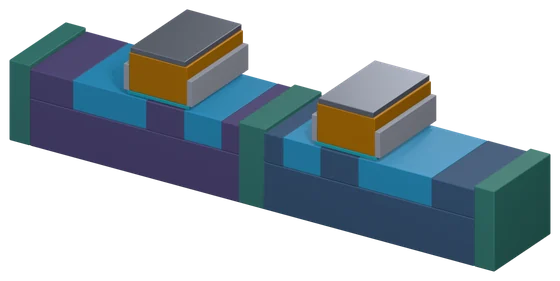
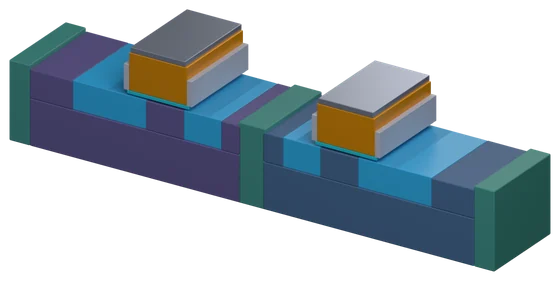
render: 全部 12 张图改用 Cycles 出图
- 3d/kit.py 改为 fabkit 兼容层，默认引擎 Cycles（FAB_ENGINE/FAB_SAMPLES 可覆盖）
- 修复 MOSFET：栅极 alpha 0.22 + 沟道自发光，Cycles 下才看得见沟道
- 修复塑封料 alpha 0.42，透过率更稳
- 96 采样，单张 3-5 秒；11MB 全部图

diff --git a/3d/kit.py b/3d/kit.py
@@ -1,167 +1,42 @@
-"""共用的小工具：材质、基本体、正交相机、三点光。
+"""兼容层：把老的 3d/*.py 里的 kit.* 转发到 fabkit。
 
-风格对齐站点：冷灰底 + 琥珀/天蓝强调色，正交投影（平行线不发散），
-透明背景，方便深浅两套主题都放得下。
+引擎默认 Cycles（可用 FAB_ENGINE=EEVEE 临时切回），采样数用 FAB_SAMPLES 调。
 """
-import bpy
-import math
 import os
-from mathutils import Vector
+import sys
 
-def srgb(c):
-    """sRGB → 线性。调色板按 sRGB 写，渲染是线性的，最后再统一转回 sRGB。"""
-    def f(x):
-        return x / 12.92 if x <= 0.04045 else ((x + 0.055) / 1.055) ** 2.4
-    return (f(c[0]), f(c[1]), f(c[2]), 1)
+FABKIT = os.path.expanduser("~/Projects/fabkit")
+if FABKIT not in sys.path:
+    sys.path.insert(0, FABKIT)
 
+import fabkit as _fk  # noqa: E402
+from fabkit.core import (  # noqa: E402,F401
+    srgb, mat, box, cyl, tube, ortho_camera, lights, world,
+)
 
+ENGINE = os.environ.get("FAB_ENGINE", "CYCLES")
+SAMPLES = int(os.environ.get("FAB_SAMPLES", "48"))
+
+# 老脚本用 kit.PALETTE[...]，这里保持同样的键和 sRGB 取值
 PALETTE = {
-    "substrate": (0.56, 0.63, 0.72, 1),
+    "substrate": (0.62, 0.66, 0.76, 1),
     "silicon":   (0.42, 0.55, 0.72, 1),
     "nplus":     (0.22, 0.74, 0.97, 1),
     "gate":      (0.96, 0.62, 0.04, 1),
     "oxide":     (0.13, 0.83, 0.93, 1),
     "sheet":     (0.38, 0.65, 0.98, 1),
-    "metal":     (0.78, 0.82, 0.88, 1),
-    "dark":      (0.12, 0.15, 0.2, 1),
+    "metal":     (0.78, 0.80, 0.85, 1),
+    "dark":      (0.20, 0.23, 0.28, 1),
 }
 
 
 def reset():
-    bpy.ops.wm.read_factory_settings(use_empty=True)
-    sc = bpy.context.scene
-    sc.render.engine = "BLENDER_EEVEE"
-    sc.render.film_transparent = True
-    sc.render.resolution_percentage = 100
-    sc.eevee.taa_render_samples = 64
-    # 关键：不做 filmic/AgX 色调映射，颜色按 sRGB 原样输出
-    sc.view_settings.view_transform = "Standard"
-    sc.view_settings.look = "None"
-    return sc
-
-
-def mat(name, color, rough=0.45, metal=0.0, alpha=1.0, emit=0.0):
-    m = bpy.data.materials.get(name)
-    if m:
-        return m
-    m = bpy.data.materials.new(name)
-    m.use_nodes = True
-    b = m.node_tree.nodes["Principled BSDF"]
-    b.inputs["Base Color"].default_value = srgb(color) if len(color) == 4 and max(color[:3]) <= 1 else color
-    b.inputs["Roughness"].default_value = rough
-    b.inputs["Metallic"].default_value = metal
-    b.inputs["Alpha"].default_value = alpha
-    if emit:
-        b.inputs["Emission Color"].default_value = color
-        b.inputs["Emission Strength"].default_value = emit
-    if alpha < 1:
-        m.surface_render_method = "BLENDED"
-        m.use_backface_culling = False
-    return m
-
-
-def box(name, size, loc, material, bevel=0.02, rot=(0, 0, 0)):
-    bpy.ops.mesh.primitive_cube_add(size=1, location=loc, rotation=rot)
-    o = bpy.context.object
-    o.name = name
-    o.scale = size
-    bpy.ops.object.transform_apply(location=False, rotation=False, scale=True)
-    if bevel:
-        b = o.modifiers.new("bev", "BEVEL")
-        b.width = bevel
-        b.segments = 3
-        b.harden_normals = True
-        bpy.ops.object.shade_smooth()
-    o.data.materials.append(material)
-    return o
-
-
-def cyl(name, r, h, loc, material, verts=64, rot=(0, 0, 0), bevel=0.01):
-    bpy.ops.mesh.primitive_cylinder_add(radius=r, depth=h, location=loc,
-                                        rotation=rot, vertices=verts)
-    o = bpy.context.object
-    o.name = name
-    if bevel:
-        b = o.modifiers.new("bev", "BEVEL")
-        b.width = bevel
-        b.segments = 3
-    bpy.ops.object.shade_smooth()
-    o.data.materials.append(material)
-    return o
-
-
-def ortho_camera(loc, target, scale):
-    """正交相机，自动看向 target。"""
-    bpy.ops.object.camera_add(location=loc)
-    cam = bpy.context.object
-    cam.data.type = "ORTHO"
-    cam.data.ortho_scale = scale
-    d = Vector(target) - Vector(loc)
-    cam.rotation_euler = d.to_track_quat("-Z", "Y").to_euler()
-    bpy.context.scene.camera = cam
-    return cam
-
-
-def lights():
-    """三点光：主光在右上，补光在左下，轮廓光在背后。"""
-    def area(name, loc, rot, energy, size, color=(1, 1, 1)):
-        bpy.ops.object.light_add(type="AREA", location=loc, rotation=rot)
-        l = bpy.context.object
-        l.name = name
-        l.data.energy = energy
-        l.data.size = size
-        l.data.color = color
-        return l
-
-    area("key", (4, -4, 6), (math.radians(45), 0, math.radians(45)), 420, 6)
-    area("fill", (-5, -3, 2.5), (math.radians(70), 0, math.radians(-55)), 110, 7,
-         color=(0.8, 0.88, 1))
-    area("rim", (0, 5, 4), (math.radians(120), 0, math.radians(180)), 180, 5,
-         color=(1, 0.95, 0.9))
+    return _fk.reset(theme="schematic", engine=ENGINE, samples=SAMPLES)
 
 
 def render(path, w=1600, h=1000):
-    sc = bpy.context.scene
-    sc.render.resolution_x = w
-    sc.render.resolution_y = h
-    sc.render.image_settings.file_format = "PNG"
-    sc.render.image_settings.color_mode = "RGBA"
-    sc.render.filepath = path
-    bpy.ops.render.render(write_still=True)
-    print("RENDERED", path)
+    return _fk.render(path, w, h)
 
 
-def tube(name, points, radius, material, resolution=4):
-    """用曲线生成一根圆管，用来画金线、光纤之类的细长弯曲结构。"""
-    cu = bpy.data.curves.new(name, "CURVE")
-    cu.dimensions = "3D"
-    cu.bevel_depth = radius
-    cu.bevel_resolution = resolution
-    cu.resolution_u = 12
-    sp = cu.splines.new("BEZIER")
-    sp.bezier_points.add(len(points) - 1)
-    for i, p in enumerate(points):
-        bp = sp.bezier_points[i]
-        bp.co = p
-        bp.handle_left_type = "AUTO"
-        bp.handle_right_type = "AUTO"
-    ob = bpy.data.objects.new(name, cu)
-    bpy.context.collection.objects.link(ob)
-    ob.data.materials.append(material)
-    return ob
-
-
-def world(hdri_path, strength=1.0):
-    """用 HDRI 当环境光。EEVEE 下也能提供柔和的反射与补光。"""
-    if not os.path.exists(hdri_path):
-        return None
-    w = bpy.data.worlds.new("HDRI")
-    bpy.context.scene.world = w
-    w.use_nodes = True
-    nt = w.node_tree
-    bg = nt.nodes.get("Background")
-    env = nt.nodes.new("ShaderNodeTexEnvironment")
-    env.image = bpy.data.images.load(hdri_path)
-    nt.links.new(env.outputs["Color"], bg.inputs["Color"])
-    bg.inputs["Strength"].default_value = strength
-    return w
+def ground_shadow(size=20):
+    return _fk.ground_shadow(size)

diff --git a/3d/fig_packaging.py b/3d/fig_packaging.py
@@ -22,7 +22,7 @@ S = kit.mat("substrate", kit.PALETTE["substrate"], rough=0.6)
 D = kit.mat("die", (0.33, 0.45, 0.62, 1), rough=0.45)
 AU = kit.mat("gold", (0.95, 0.72, 0.25, 1), rough=0.22, metal=0.9)
 B = kit.mat("bump", (0.92, 0.62, 0.18, 1), rough=0.28, metal=0.6)
-M = kit.mat("mold", (0.72, 0.66, 0.92, 1), rough=0.4, alpha=0.22)
+M = kit.mat("mold", (0.72, 0.66, 0.92, 1), rough=0.45, alpha=0.42)
 U = kit.mat("underfill", (0.35, 0.8, 0.85, 1), rough=0.3, alpha=0.16)
 BALL = kit.mat("ball", (0.78, 0.82, 0.88, 1), rough=0.25, metal=0.7)
 
@@ -60,7 +60,7 @@ for px in pads:
     kit.tube("wire", [p0, mid, p1], 0.016, AU)
 
 # 塑封（半透明）
-kit.box("mold", (2.0, 1.5, 0.72), (X, -0.05, SUB_H + 0.36), M, bevel=0.03)
+kit.box("mold", (2.0, 1.5, 0.72), (X, -0.05, SUB_H + 0.365), M, bevel=0.03)
 
 # ---------------- 右：倒装芯片 ----------------
 X = 2.1

diff --git a/3d/fig_mosfet.py b/3d/fig_mosfet.py
@@ -20,9 +20,9 @@ OUT = argv[0] if argv else os.path.abspath("assets/3d/mosfet.png")
 kit.reset()
 SUB = kit.mat("sub", (0.60, 0.66, 0.76, 1), rough=0.6)
 SD = kit.mat("sd", kit.PALETTE["nplus"], rough=0.35)
-CH = kit.mat("chan", (0.45, 0.70, 0.95, 1), rough=0.35)
-OX = kit.mat("ox", kit.PALETTE["oxide"], rough=0.15, alpha=0.45)
-G = kit.mat("gate", kit.PALETTE["gate"], rough=0.25, metal=0.15, alpha=0.28)
+CH = kit.mat("chan", (0.45, 0.70, 0.95, 1), rough=0.35, emit=0.9)
+OX = kit.mat("ox", kit.PALETTE["oxide"], rough=0.15, alpha=0.28)
+G = kit.mat("gate", kit.PALETTE["gate"], rough=0.25, metal=0.15, alpha=0.22)
 MET = kit.mat("metal", (0.80, 0.84, 0.90, 1), rough=0.25, metal=0.8)
 
 H = 0.42          # 衬底高度
